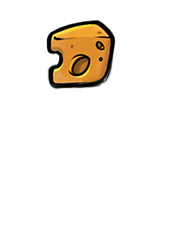
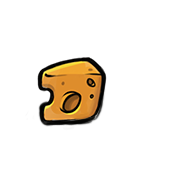
Draw mousetrap.

Changed region(s): [[0.1875, 0.0625, 0.625, 0.6562]]

diff --git a/src/world.js b/src/world.js
@@ -33,6 +33,8 @@ var WORLD = (function () {
         fixedHandImage = batch.load("clock-hand-fixed.png"),
         crankImage = batch.load("crank-left.png"),
         crankImageTint = batch.load("crank-left-2.png"),
+        trapImage = batch.load("trap.png"),
+        trapCheese = batch.load("trap-cheese.png"),
         nextTint = 0;
         
     (function () {
@@ -91,14 +93,19 @@ var WORLD = (function () {
     };
     
     Trigger.prototype.draw = function (context, scale) {
+        var x = (this.i + 0.5) * TILE_WIDTH,
+            y = (this.j + 0.5) * TILE_WIDTH;
         if (this.action == TRIGGER_ACTIONS.Clockwise || this.action == TRIGGER_ACTIONS.Counterclock) {
             var mirror = this.action == TRIGGER_ACTIONS.Counterclock,
-                x = (this.i + 0.5) * TILE_WIDTH,
-                y = (this.j + 0.5) * TILE_WIDTH,
                 width = crankImage.width * scale,
                 height = crankImage.height * scale;
             BLIT.draw(context, crankImage, x, y, BLIT.ALIGN.Center, width, height, mirror);
             BLIT.draw(context, crankImageTint, x, y, BLIT.ALIGN.Center, width, height, mirror, TINTS[this.tint]);
+            return;
+        }
+        if (this.action == TRIGGER_ACTIONS.Mousetrap) {
+            BLIT.draw(context, trapImage, x, y, BLIT.ALIGN.Center, trapImage.width * scale, trapImage.height * scale);
+            BLIT.draw(context, trapCheese, x, y, BLIT.ALIGN.Center, trapCheese.width * scale, trapCheese.height * scale);
             return;
         }
         context.save();
